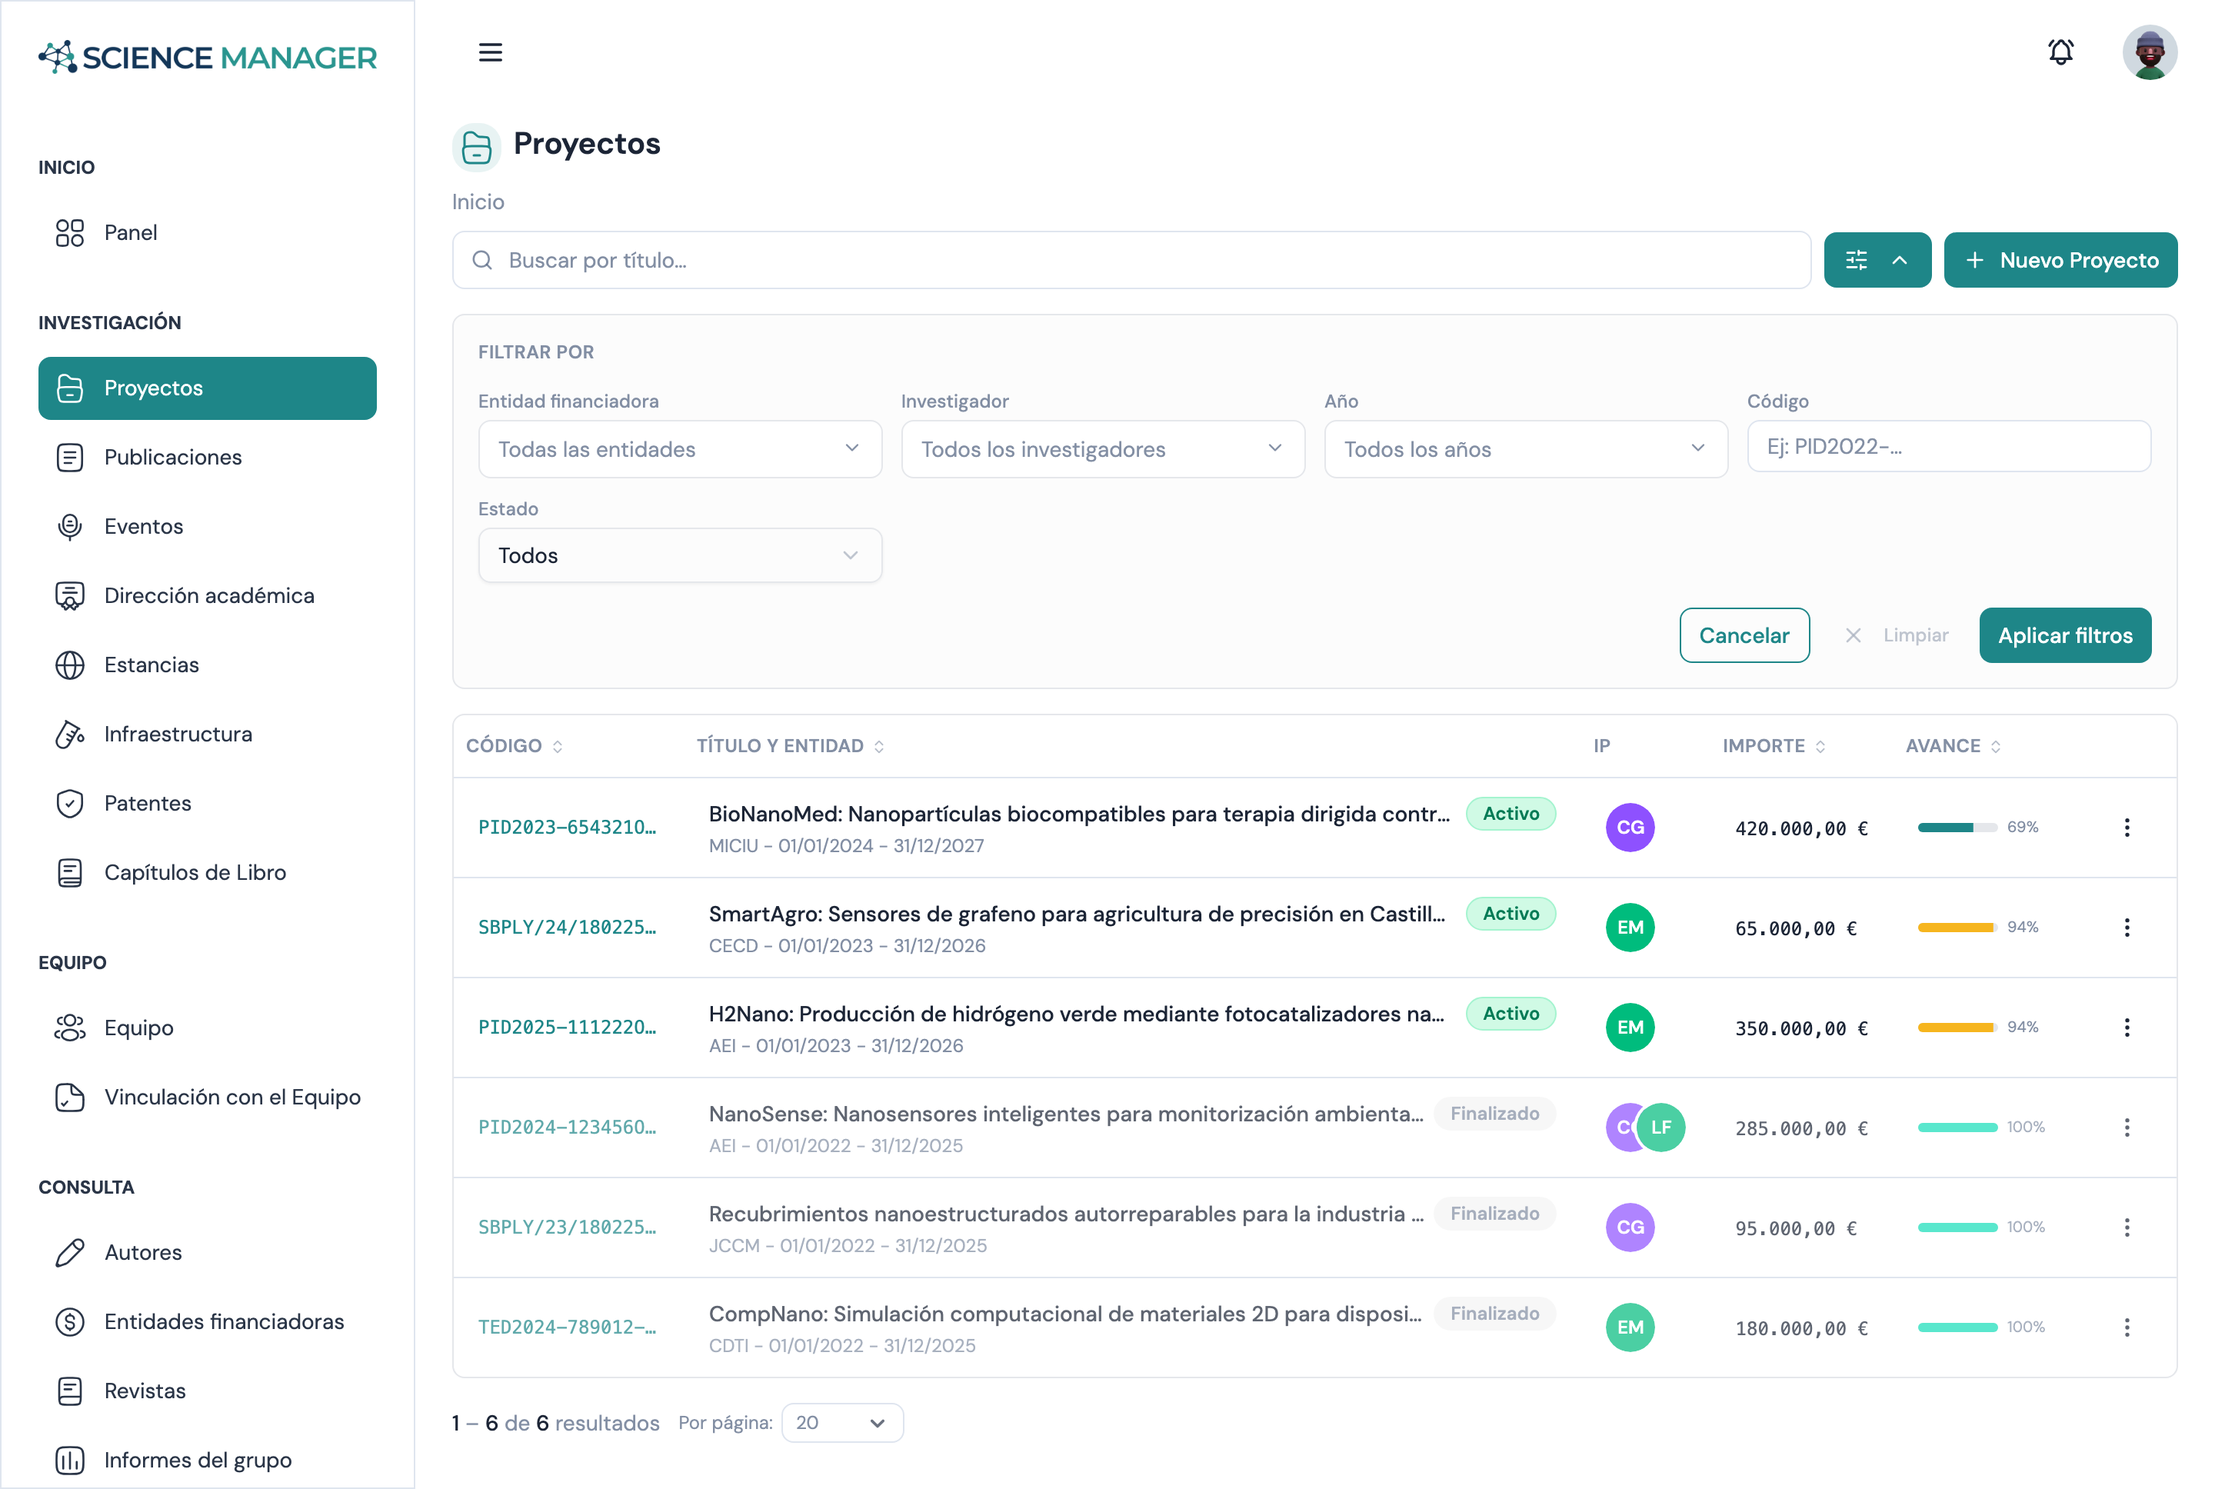
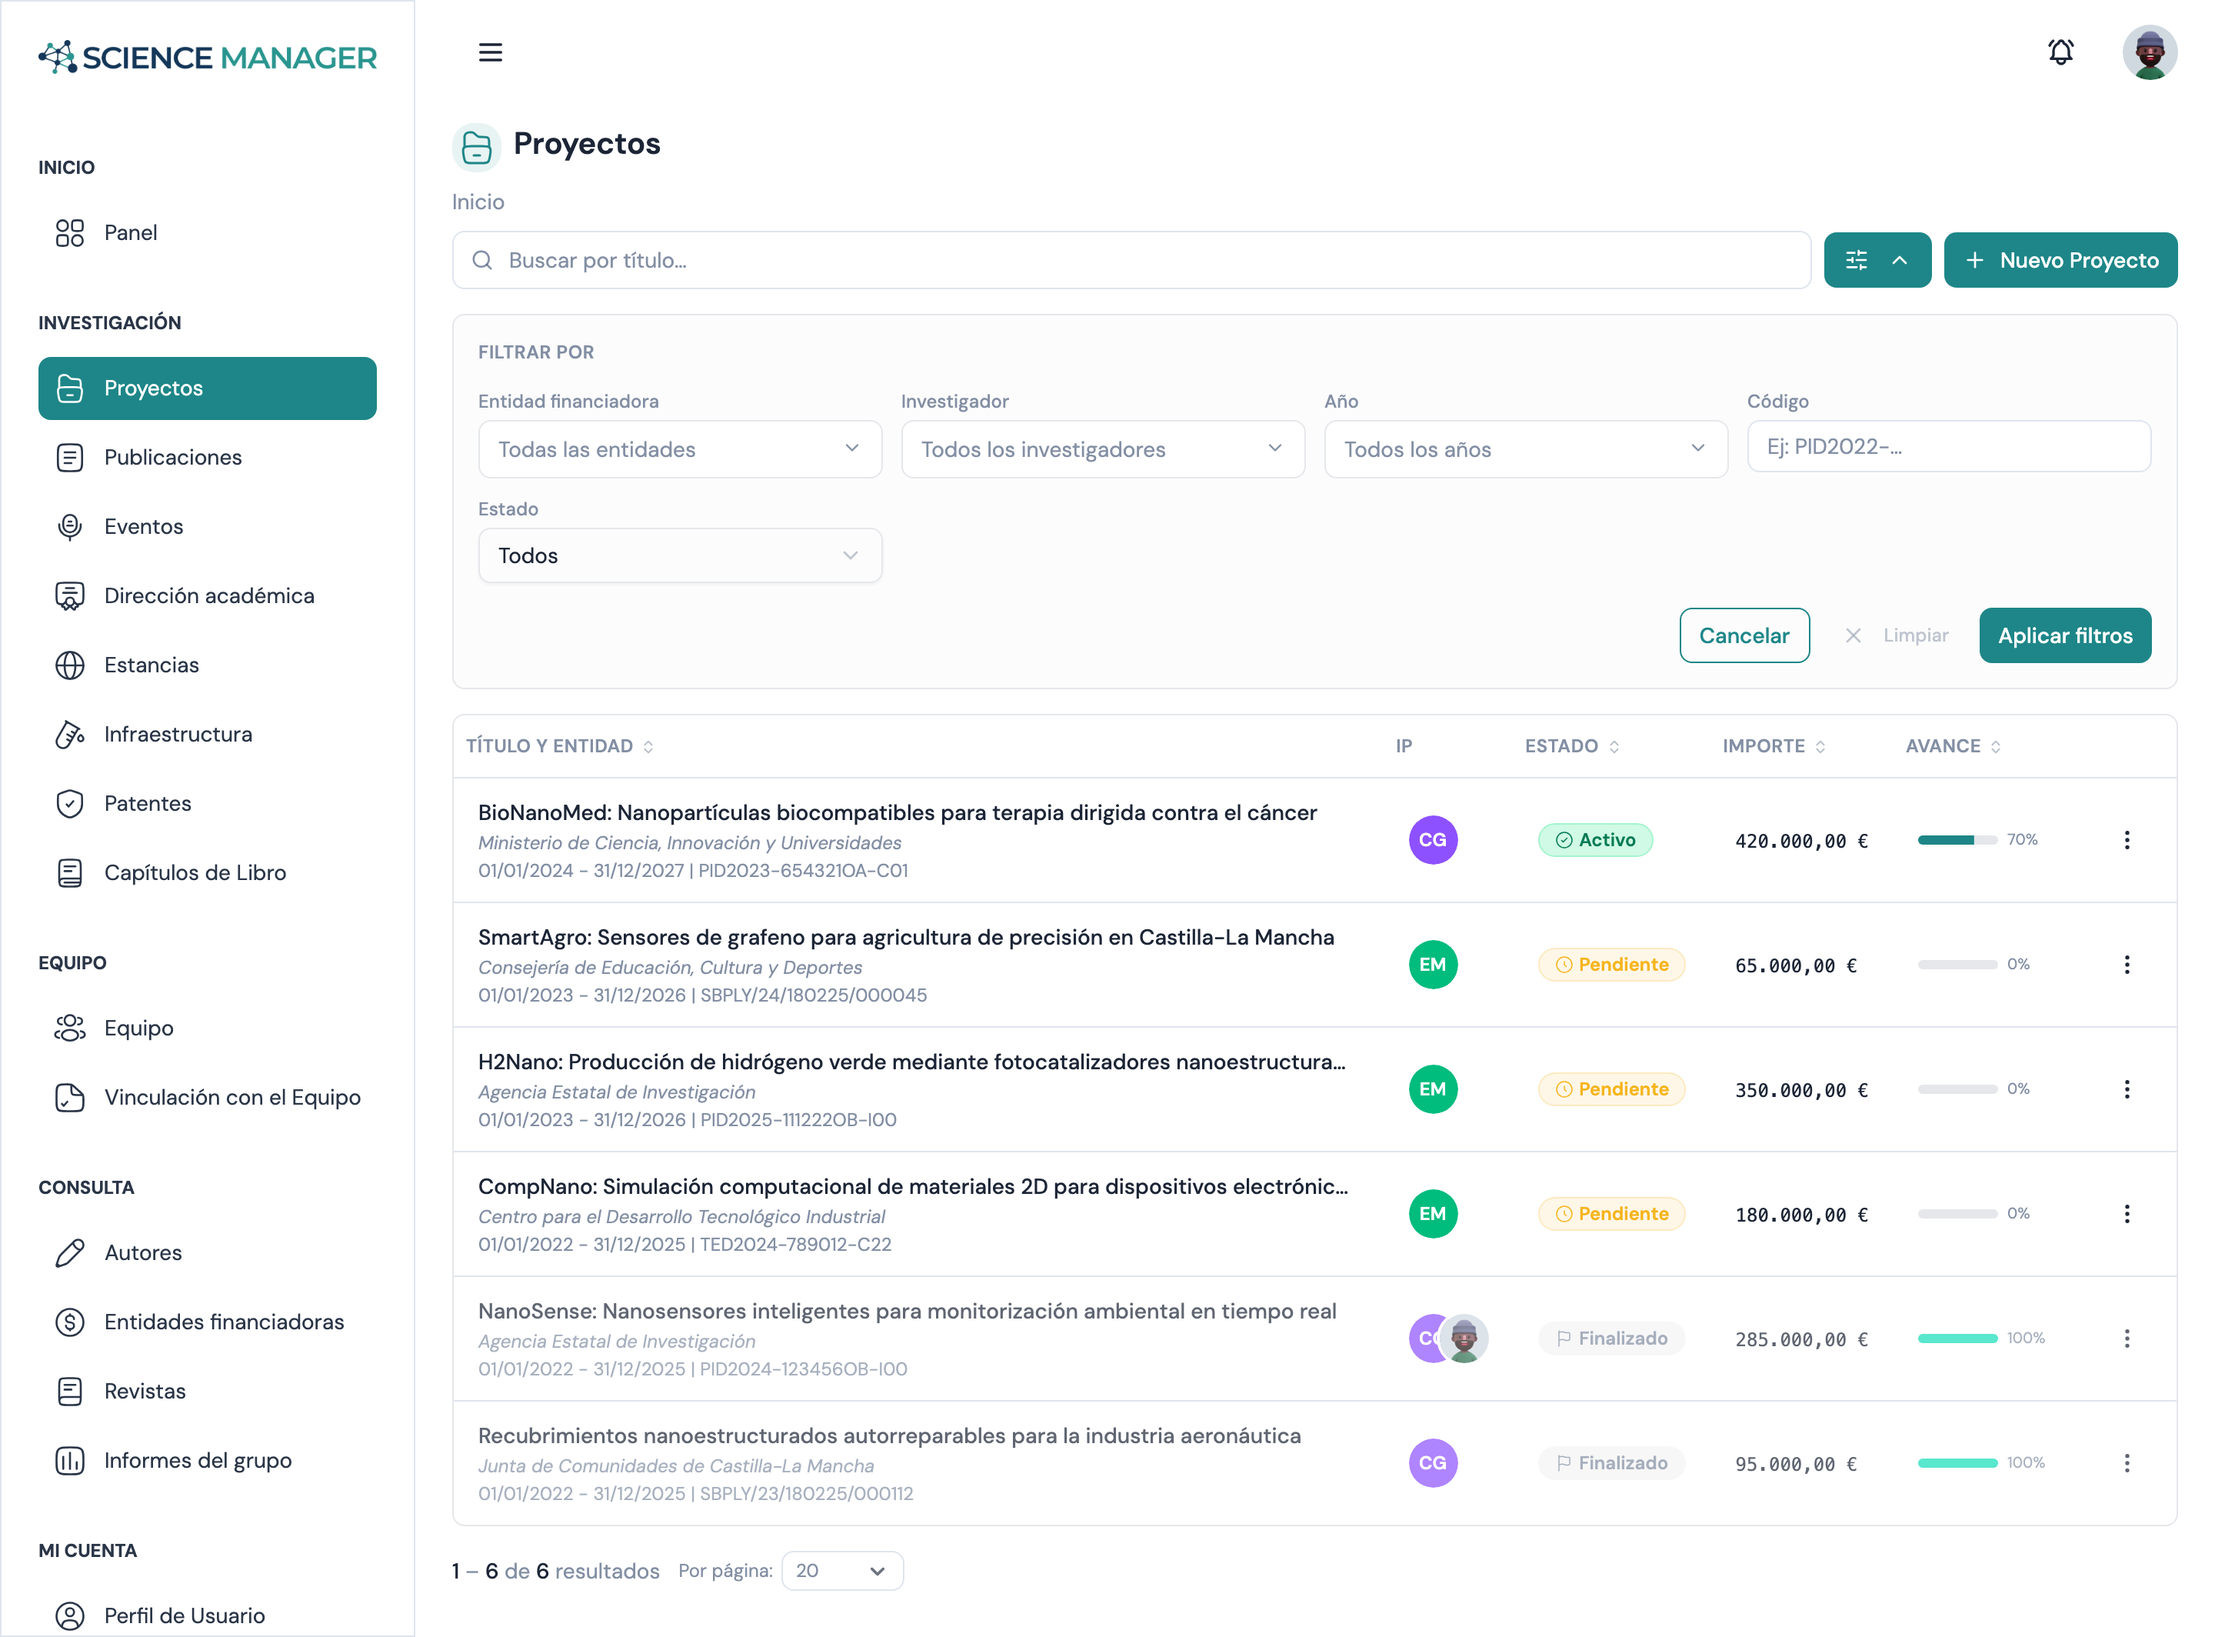
docs: proyects view list

diff --git a/docs/02-core-features/01-projects.md b/docs/02-core-features/01-projects.md
@@ -10,7 +10,7 @@ El módulo **Proyectos** es el registro histórico completo del grupo: incluye l
 
 ## 🔎 Listado, búsqueda y filtros \{#listado-búsqueda-y-filtros}
 
-Accede desde **Investigación → Proyectos**. La tabla muestra el título con su entidad financiadora, las fechas y el código del proyecto (`inicio - fin / código`), el investigador principal (IP), el **Estado**, el importe y el avance temporal de cada proyecto. Esta misma tabla aparece en la pestaña de proyectos de la ficha de cada miembro del equipo.
+Accede desde **Investigación → Proyectos**. La tabla muestra el título con su entidad financiadora, las fechas y el código del proyecto en una misma línea bajo el título (`inicio - fin | código`), el investigador principal (IP), el **Estado**, el importe y el avance temporal de cada proyecto. Esta misma tabla aparece en la pestaña de proyectos de la ficha de cada miembro del equipo.
 
 ![Listado de proyectos con el panel de filtros desplegado](/img/docs/02-core-features/03-projects-list-and-filters.png)
 *Listado de proyectos con el panel de filtros abierto.*
